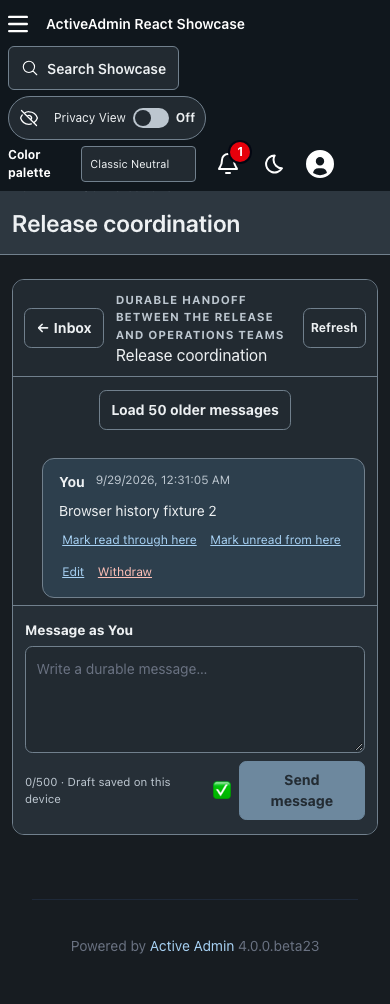
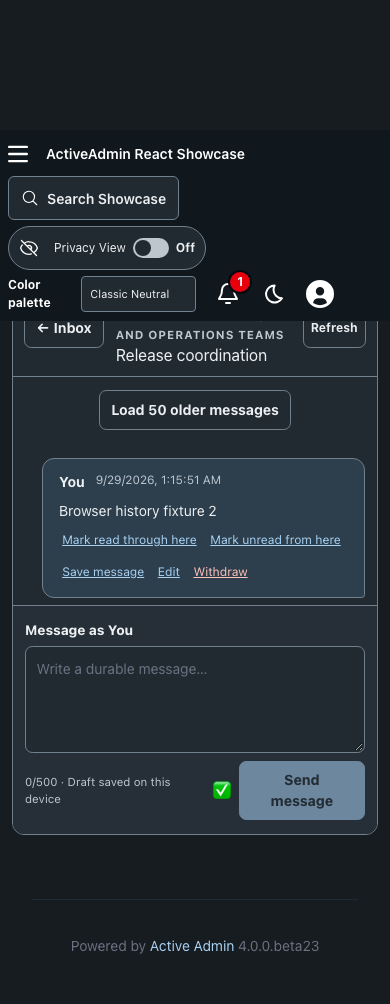
fix: expose saved message controls in workspace

diff --git a/app/frontend/components/ConversationWorkspace.test.tsx b/app/frontend/components/ConversationWorkspace.test.tsx
@@ -21,6 +21,8 @@ function message(sequence: number, overrides: Partial<ConversationMessage> = {})
     markUnreadUrl: `/admin/conversations/release-room/read-state/message-${sequence}.json`,
     own: sequence % 2 === 0,
     publicId: `message-${sequence}`,
+    saved: false,
+    savedUrl: `/admin/conversations/release-room/messages/message-${sequence}/saved.json`,
     sequence,
     withdrawUrl: `/admin/conversations/release-room/messages/message-${sequence}.json`,
     withdrawn: false,
@@ -91,6 +93,7 @@ describe("ConversationWorkspace", () => {
     expect(screen.getByText("<b>plain</b> ✅")).toBeInTheDocument()
     expect(document.querySelector(".conversation-message-list b")).not.toBeInTheDocument()
     expect(screen.getByRole("button", { name: "Mark read through here" })).toBeInTheDocument()
+    expect(screen.getByRole("button", { name: "Save message" })).toHaveAttribute("aria-pressed", "false")
     expect(screen.getByRole("button", { name: "Insert check mark emoji" })).toBeInTheDocument()
     expect(screen.getByRole("link", { name: "Scheduled messages" })).toHaveAttribute(
       "href",
@@ -98,6 +101,45 @@ describe("ConversationWorkspace", () => {
     )
     expect(screen.getByRole("link", { name: "Saved messages" })).toHaveAttribute("href", "/admin/conversations/saved")
     expect(document.querySelector('use[href="/showcase-icons.svg#heroicons-users"]')).toBeInTheDocument()
+  })
+
+  it("saves and removes a message through canonical Rails state", async () => {
+    const user = userEvent.setup()
+    const unsaved = message(1)
+    const saved = { ...unsaved, saved: true }
+    vi.spyOn(globalThis, "fetch")
+      .mockImplementationOnce(() => jsonResponse({ message: saved, ok: true }))
+      .mockImplementationOnce(() => jsonResponse(props(thread("release-room", { messages: [saved] }))))
+      .mockImplementationOnce(() => jsonResponse({ message: unsaved, ok: true }))
+      .mockImplementationOnce(() => jsonResponse(props(thread("release-room", { messages: [unsaved] }))))
+    render(<ConversationWorkspace {...props(thread("release-room", { messages: [unsaved] }))} />)
+
+    await user.click(screen.getByRole("button", { name: "Save message" }))
+    const remove = await screen.findByRole("button", { name: "Remove from saved" })
+    expect(remove).toHaveAttribute("aria-pressed", "true")
+    expect(screen.getByRole("status")).toHaveTextContent("Message saved.")
+
+    await user.click(remove)
+    expect(await screen.findByRole("button", { name: "Save message" })).toHaveAttribute("aria-pressed", "false")
+    expect(screen.getByRole("status")).toHaveTextContent("Message removed from saved messages.")
+  })
+
+  it("offers an idempotent retry after a save failure", async () => {
+    const user = userEvent.setup()
+    const saved = message(1, { saved: true })
+    const fetchMock = vi.spyOn(globalThis, "fetch")
+      .mockImplementationOnce(() => jsonResponse({ error: "Save failed" }, 503))
+      .mockImplementationOnce(() => jsonResponse({ message: saved, ok: true }))
+      .mockImplementationOnce(() => jsonResponse(props(thread("release-room", { messages: [saved] }))))
+    render(<ConversationWorkspace {...props(thread("release-room", { messages: [message(1)] }))} />)
+
+    await user.click(screen.getByRole("button", { name: "Save message" }))
+    expect(await screen.findByRole("alert")).toHaveTextContent("Save failed")
+    await user.click(screen.getByRole("button", { name: "Retry" }))
+
+    expect(await screen.findByRole("button", { name: "Remove from saved" })).toHaveAttribute("aria-pressed", "true")
+    expect(fetchMock.mock.calls[0][1]?.method).toBe("POST")
+    expect(fetchMock.mock.calls[1][1]?.method).toBe("POST")
   })
 
   it("navigates without stale responses and restores focus to the selected thread heading", async () => {

diff --git a/app/frontend/components/ConversationWorkspace.tsx b/app/frontend/components/ConversationWorkspace.tsx
@@ -25,6 +25,8 @@ export type ConversationMessage = {
   markUnreadUrl: string
   own: boolean
   publicId: string
+  saved: boolean
+  savedUrl: string
   sequence: number
   withdrawUrl: string
   withdrawn: boolean
@@ -251,13 +253,13 @@ export default function ConversationWorkspace({ inbox: initialInbox, inboxUrl, s
     }
   }
 
-  async function mutate(url: string, options: RequestOptions, success: string): Promise<MutationResult> {
+  async function mutate(url: string, options: RequestOptions, success: string, retryAction?: () => void): Promise<MutationResult> {
     const expectedId = selectedRef.current?.publicId
     const expectedNavigation = navigationVersion.current
     setBusy(true)
     setError(null)
     setNotice(null)
-    retry.current = null
+    retry.current = retryAction || null
     try {
       const payload = await requestJson(url, options) as MutationPayload
       const active = Boolean(expectedId) && selectedRef.current?.publicId === expectedId &&
@@ -317,6 +319,15 @@ export default function ConversationWorkspace({ inbox: initialInbox, inboxUrl, s
       method: "PATCH"
     }, "Message updated.")
     if (result.active && result.succeeded) setEditingId(null)
+  }
+
+  async function toggleSaved(message: ConversationMessage) {
+    await mutate(
+      message.savedUrl,
+      { method: message.saved ? "DELETE" : "POST" },
+      message.saved ? "Message removed from saved messages." : "Message saved.",
+      () => void toggleSaved(message)
+    )
   }
 
   function jumpToNewest() {
@@ -399,6 +410,12 @@ export default function ConversationWorkspace({ inbox: initialInbox, inboxUrl, s
                 {message.edited && <span>Edited</span>}
                 <button disabled={busy} onClick={() => void mutate(message.markReadUrl, { method: "POST" }, "Read position updated.")} type="button">Mark read through here</button>
                 <button disabled={busy} onClick={() => void mutate(message.markUnreadUrl, { method: "DELETE" }, "Unread position updated.")} type="button">Mark unread from here</button>
+                <button
+                  aria-pressed={message.saved}
+                  disabled={busy}
+                  onClick={() => void toggleSaved(message)}
+                  type="button"
+                >{message.saved ? "Remove from saved" : "Save message"}</button>
                 {message.editable && !message.withdrawn && <>
                   <button onClick={() => { setEditingId(message.publicId); setEditingBody(message.body) }} type="button">Edit</button>
                   <button className="conversation-danger" disabled={busy} onClick={() => {

diff --git a/test/browser/conversations_no_js.spec.ts b/test/browser/conversations_no_js.spec.ts
@@ -61,20 +61,22 @@ test("keeps saved messages private, contextual, and useful without JavaScript", 
   await page.getByRole("button", { name: "Sign In" }).click()
 
   await page.goto("/admin/conversations/release-coordination")
-  const ownMessage = page.locator("article").filter({
-    hasText: "I will verify the no-JavaScript workflow before approval."
-  })
+  const ownMessage = page.locator("article")
+    .filter({ has: page.getByRole("button", { name: "Withdraw message" }) })
+    .filter({ has: page.getByRole("button", { name: "Save message" }) })
+    .last()
+  const ownMessageBody = (await ownMessage.locator("p").first().textContent()) || ""
+  const ownMessageId = await ownMessage.evaluate(article => article.closest("li")?.id)
+  if (!ownMessageId) throw new Error("saved message did not have a stable public-id anchor")
   await ownMessage.getByRole("button", { name: "Save message" }).click()
   await expect(page.getByText("Message saved.")).toBeVisible()
-  await page.locator("article").filter({
-    hasText: "I will verify the no-JavaScript workflow before approval."
-  }).getByRole("button", { name: "Withdraw message" }).click()
+  await page.locator(`#${ownMessageId}`).getByRole("button", { name: "Withdraw message" }).click()
 
   await page.getByRole("link", { name: "Saved messages" }).click()
   await expect(page.getByRole("heading", { level: 2, name: "Saved messages" })).toBeVisible()
   await expect(page.getByText("Release Lead")).toBeVisible()
   await expect(page.getByText(MessageTombstone)).toBeVisible()
-  await expect(page.getByText("I will verify the no-JavaScript workflow before approval.")).toHaveCount(0)
+  await expect(page.getByText(ownMessageBody, { exact: true })).toHaveCount(0)
   await expect(page.getByRole("link", { name: "Open in conversation" }).first()).toHaveAttribute(
     "href",
     /\/admin\/conversations\/release-coordination#message-/

diff --git a/test/browser/conversation_workspace.spec.ts b/test/browser/conversation_workspace.spec.ts
@@ -57,6 +57,13 @@ test("enhances the durable conversation workflow at desktop and narrow widths", 
   if (!sentMessageId) throw new Error("sent message did not have a stable public-id anchor")
   const sentMessage = page.locator(`#${sentMessageId}`)
 
+  await sentMessage.getByRole("button", { name: "Save message" }).click()
+  await expect(page.getByText("Message saved.")).toBeVisible()
+  await expect(sentMessage.getByRole("button", { name: "Remove from saved" })).toHaveAttribute("aria-pressed", "true")
+  await sentMessage.getByRole("button", { name: "Remove from saved" }).click()
+  await expect(page.getByText("Message removed from saved messages.")).toBeVisible()
+  await expect(sentMessage.getByRole("button", { name: "Save message" })).toHaveAttribute("aria-pressed", "false")
+
   await page.setViewportSize({ width: 1440, height: 1000 })
   await page.reload()
   await expect(page.getByRole("region", { name: "Conversation workspace" })).toBeVisible()
@@ -77,7 +84,7 @@ test("enhances the durable conversation workflow at desktop and narrow widths", 
 
   await sentMessage.getByRole("button", { name: "Edit" }).click()
   await sentMessage.getByLabel("Edit message").fill("Edited in the React workspace ✅")
-  await sentMessage.getByRole("button", { name: "Save" }).click()
+  await sentMessage.getByRole("button", { name: "Save", exact: true }).click()
   await expect(page.getByText("Edited in the React workspace ✅")).toBeVisible()
   await sentMessage.getByRole("button", { name: "Mark read through here" }).click()
   await expect(page.getByText("Read position updated.")).toBeVisible()

diff --git a/app/services/conversations/workspace_serializer.rb b/app/services/conversations/workspace_serializer.rb
@@ -15,6 +15,7 @@ module Conversations
       @inbox_entries = inbox_entries
       @membership = membership
       @message_page = message_page
+      @saved_message_ids = saved_message_ids
     end
 
     def as_json
@@ -59,6 +60,8 @@ module Conversations
         markUnreadUrl: routes.admin_conversation_unread_state_path(conversation.public_id, message.public_id, format: :json),
         own: message.author_id == @membership.id,
         publicId: message.public_id,
+        saved: @saved_message_ids.include?(message.id),
+        savedUrl: routes.admin_conversation_saved_message_path(conversation.public_id, message.public_id, format: :json),
         sequence: message.sequence,
         withdrawUrl: routes.admin_conversation_withdraw_message_path(conversation.public_id, message.public_id, format: :json),
         withdrawn: presenter.withdrawn?
@@ -83,6 +86,14 @@ module Conversations
         topic: conversation.topic,
         unreadCount: @membership.unread_count
       }
+    end
+
+    def saved_message_ids
+      return Set.new if @membership.nil?
+
+      relation = @membership.saved_messages
+      relation = relation.where(message_id: @message_page.messages) if @message_page
+      relation.pluck(:message_id).to_set
     end
 
     def routes

diff --git a/spec/requests/admin/conversations_spec.rb b/spec/requests/admin/conversations_spec.rb
@@ -425,6 +425,29 @@ RSpec.describe "Admin conversations" do
     expect(membership.saved_messages.reload).to be_empty
   end
 
+  it "returns canonical private saved state for JSON mutations" do
+    post admin_conversation_saved_message_path(conversation.public_id, other_message.public_id, format: :json), as: :json
+
+    expect(response).to have_http_status(:ok)
+    expect(response.parsed_body).to include(
+      "ok" => true,
+      "message" => include(
+        "publicId" => other_message.public_id,
+        "saved" => true,
+        "savedUrl" => admin_conversation_saved_message_path(
+          conversation.public_id,
+          other_message.public_id,
+          format: :json
+        )
+      )
+    )
+
+    delete admin_conversation_saved_message_path(conversation.public_id, other_message.public_id, format: :json), as: :json
+
+    expect(response).to have_http_status(:ok)
+    expect(response.parsed_body.dig("message", "saved")).to be(false)
+  end
+
   it "renders only the current membership's saved messages with canonical deep links" do
     create(:saved_message, conversation:, membership:, message: other_message)
     other_membership = create(:conversation_membership, conversation:)

diff --git a/spec/services/conversations/workspace_serializer_spec.rb b/spec/services/conversations/workspace_serializer_spec.rb
@@ -19,6 +19,7 @@ RSpec.describe Conversations::WorkspaceSerializer do
   end
 
   it "serializes stable public identity, canonical routes, plain text, and permissions" do
+    create(:saved_message, conversation:, membership:, message:)
     inbox = Conversations::Inbox.call(admin_user: admin)
     page = Conversations::MessagePage.call(conversation:)
 
@@ -33,7 +34,9 @@ RSpec.describe Conversations::WorkspaceSerializer do
       body: "Plain <strong>text</strong>",
       editable: true,
       own: true,
-      publicId: "serializer-message"
+      publicId: "serializer-message",
+      saved: true,
+      savedUrl: "/admin/conversations/serializer-room/messages/serializer-message/saved.json"
     )
     expect(payload.fetch(:selected)).to include(
       draftNamespace: membership.key,
@@ -48,7 +51,8 @@ RSpec.describe Conversations::WorkspaceSerializer do
     expect(described_class.message(message:, membership:)).to include(
       body: "Edited",
       edited: true,
-      publicId: "serializer-message"
+      publicId: "serializer-message",
+      saved: false
     )
   end
 end

diff --git a/app/controllers/admin/conversation_saved_messages_controller.rb b/app/controllers/admin/conversation_saved_messages_controller.rb
@@ -9,7 +9,15 @@ module Admin
       saved = request.post?
       Conversations::SetSavedState.call(message: @message, membership: @membership, saved:)
       notice = saved ? "Message saved." : "Message removed from saved messages."
-      redirect_to conversation_location, notice:
+      respond_to do |format|
+        format.html { redirect_to conversation_location, notice: }
+        format.json do
+          render json: {
+            message: Conversations::WorkspaceSerializer.message(message: @message, membership: @membership),
+            ok: true
+          }
+        end
+      end
     rescue Conversations::SetSavedState::NotAuthorized
       raise ActiveRecord::RecordNotFound
     end

diff --git a/docs/conversations.md b/docs/conversations.md
@@ -57,6 +57,12 @@ author, timestamp, a bounded excerpt and a canonical deep link back to the
 message. It is rooted in the signed-in administrator's memberships, so another
 member's saved state is never visible.
 
+The React workspace receives the same canonical per-message saved state and
+Rails mutation URL. Its accessible Save/Remove control applies the canonical
+JSON response and refreshes the selected thread, while the server-rendered
+forms remain the complete no-JavaScript path. Failed mutations are retryable;
+navigation guards prevent a late response from changing another thread.
+
 Saved rows contain only relational identity and timestamps; they never copy
 message bodies. A withdrawal therefore renders only the durable `[withdrawn]`
 tombstone. If a message or membership is physically deleted in a future
